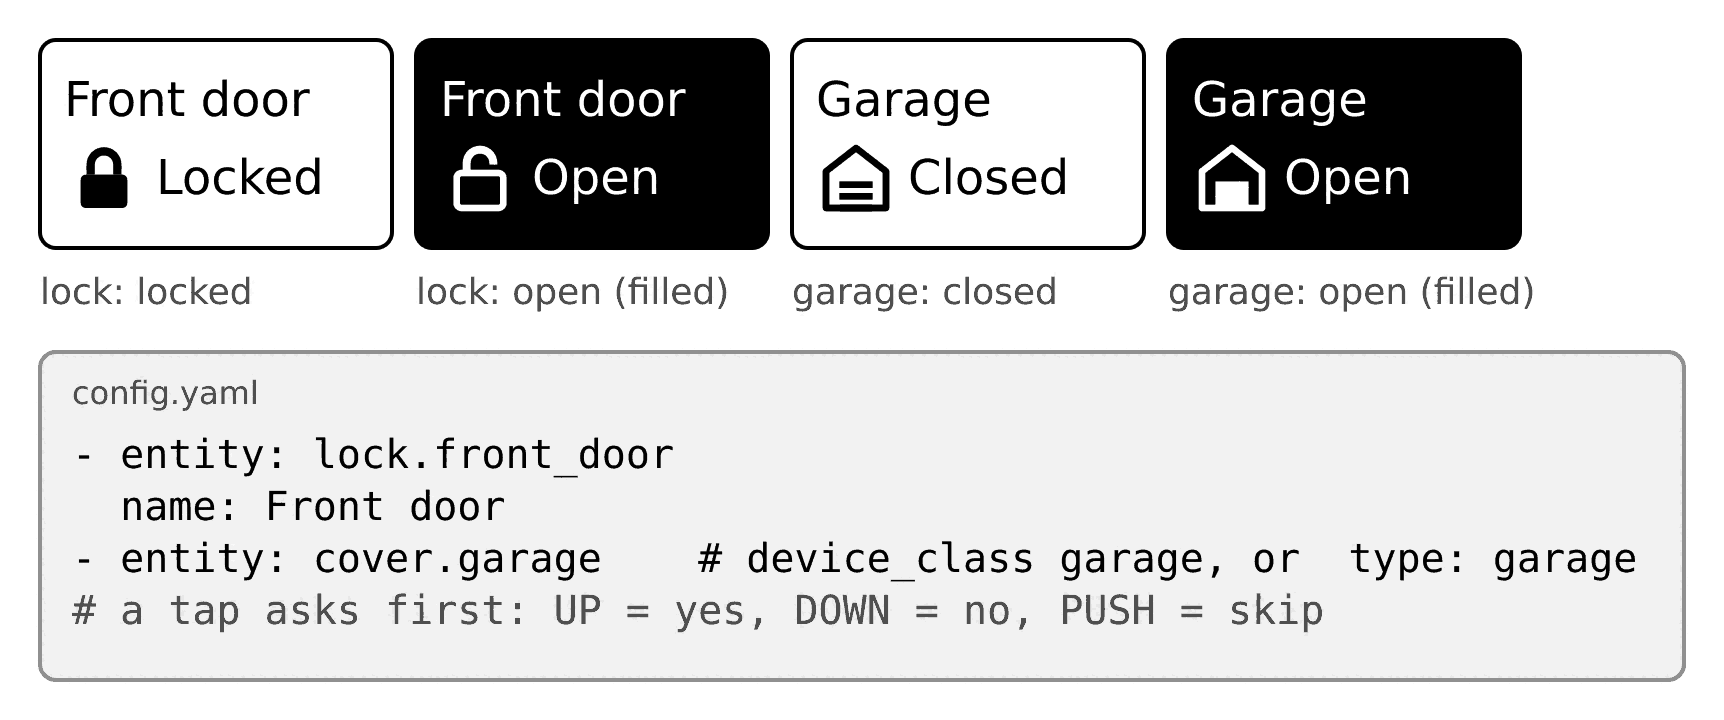
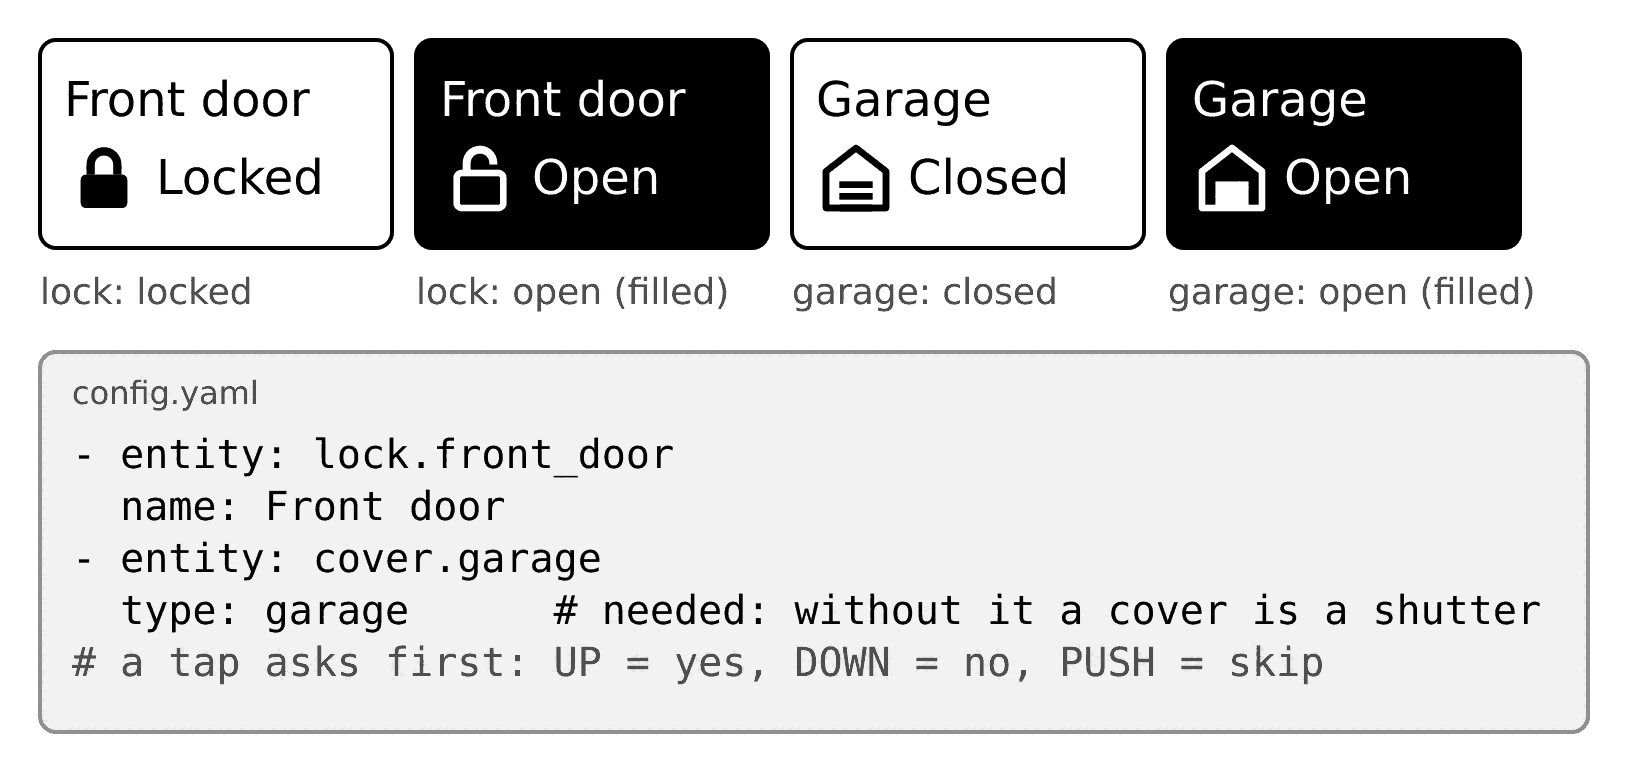
task 108: docs, guide, example config, device checks (step 6)
Claude-Session: https://claude.ai/code/session_01KJF812xuvvKsB7jVXNi3pG

Changed region(s): [[0.0, 0.0306, 0.9828, 0.8861], [0.0307, 0.9167, 0.9828, 0.9778]]

diff --git a/docs/guide/img/gen_sources.py b/docs/guide/img/gen_sources.py
@@ -651,7 +651,7 @@ gal3('gallery-alarm',[(SW,2,20,20,'disarmed'),(SW,10,208,20,'pending (Away)'),(S
  ['- entity: alarm_control_panel.home','  name: Alarm','# tap: keypad popup; the code never leaves the device'],1060,
  pop=('widgets-new-popup-alarm',584,20,0.45,'the keypad'))
 gal3('gallery-lock-garage',[(SW,3,20,20,'lock: locked'),(SW,7,208,20,'lock: open (filled)'),(SW,4,396,20,'garage: closed'),(SW,8,584,20,'garage: open (filled)')],
- ['- entity: lock.front_door','  name: Front door','- entity: cover.garage    # device_class garage, or  type: garage','# a tap asks first: UP = yes, DOWN = no, PUSH = skip'],772)
+ ['- entity: lock.front_door','  name: Front door','- entity: cover.garage','  type: garage      # needed: without it a cover is a shutter','# a tap asks first: UP = yes, DOWN = no, PUSH = skip'],772)
 gal3('gallery-energy',[(WW,10,20,20,'used and solar, one scale'),(WW,12,404,20,'solar missing')],
  ['- type: energy','  usage: sensor.energy_used_today','  solar: sensor.energy_solar_today'],788)
 gal3('gallery-media-art-states',[(MA,1,20,20,'art decoded'),(MA,2,20,170,'no picture'),(MA,3,20,320,'picture loading'),(MA,4,20,470,'fetch failed')],

diff --git a/docs/device-checks.md b/docs/device-checks.md
@@ -99,3 +99,4 @@ tagged `UNVERIFIED` in code comments and task notes.
 - [ ] 109 UNVERIFIED (device; PC part done, mockups docs/ui/png/widgets-new-states-wide.png): energy widget (`type: energy`) with the real entity `sensor.shellypro3em_3ce90e703834_total_active_energy` as `usage` (a `total_increasing` total, kWh), 2x1 portrait + landscape. Look vs the mockup: F18 `Used` / `Solar`, grey track (0xCCCCCC) with INK fill, `7.4 kWh` right aligned, one shared scale, `-` + empty track for a missing value, dotted frame + `n/a` + warn badge when both are unavailable. Today's value comes from `recorder/statistics_during_period` (period day, statistic `change`, one bucket from local midnight): check the log `APP: graph_fetch ... id=sensor.shellypro3em...` and compare the shown number with HA's own change since midnight (UNVERIFIED: HA may leave out the running hour, so a lag of up to 1 h is expected; check if it is more). Solar absent from config: the Used row is centred. Long press opens the history bar popup of `usage` (hourly bars, statistic change, last 24 h; UNVERIFIED it is "today" aligned only through hours=24, not through local midnight). The widget is not rocker-focusable (the spec text asks for a rocker long push, but section 0 says read-only widgets are not focusable; I followed section 0). Wh sensors show as kWh (not tested on a real one).
 - [ ] 107 UNVERIFIED (device; PC part done, mockups docs/ui/png/widgets-new-media-art-*.png; the user has no media_player with art, so the demo "New" tab is the look check: playing tile with the built-in sample cover, paused tile with the no-picture tile): album art. Look: widget art 80x80 in 16 greys with the 1 px edge, text at x 104 (about 14 / 11 characters then `...`), tile with the speaker glyph (drawn from primitives, 40 px where the spec says L 48), popup art 200x200 landscape and portrait (portrait panel is 700 px high), touch on the art opens the popup, `art: false` gives the old widget and popup. Refresh: a changed rect touching ready art is ONE GC16 partial with real greys (src/present, `PRESENT: ... reason=art`); check it comes only when the picture changes, no flash/ghosting on title changes, and the ghost debt. Real entity (needs one): `entity_picture` is requested like the other attributes (UNVERIFIED that the long token URL survives the state cache and the template size); fetch (background lane, HA-relative with token, 150 KB / 6 s caps) + M5GFX JPEG/PNG decode into a PSRAM sprite are written but UNVERIFIED (`APP: art err= ok= bytes= net_ms= decode_ms=` log line; check PSRAM use of the 150 KB body, decode time of a 640 px cover, a PNG, a 404, an oversize file, a yield to a tap). Unverified guesses: 6 s time cap, widget tile `Loading` hourglass M and failed layout, popup idle close unchanged.
 - [ ] 118 UNVERIFIED (device; PC part done, lib/ui_state touch()): tap on a sensor / binary sensor / energy widget opens the history popup (same fetch/cache as long press); tap on a light/switch still toggles; `history: false` and `attribute:` sensors and graph widgets: tap does nothing; no hourglass/pending feedback on the tap; rocker PUSH on a focused sensor still opens it.
+- [ ] 108 UNVERIFIED (device; PC part done, mockups docs/ui/png/widgets-new-popup-alarm.png, -popup-confirm.png, -states-small.png): alarm panel, lock and garage widgets, demo mode first (demo tabs `Alarm` and `Doors`, entities are fake, no real entity needed). Look check portrait + landscape: 1x1 toggle layout (name F24, M icon, F24 state; INK fill for ALARM, Open lock, Jammed, open garage; dotted `n/a` with the warn glyph; the 3 px dashed pending border is PAPER on a filled tile). Alarm keypad (tap `Alarm`): panel (40, 94, 880, 408), 12 keys 96 x 64, 4 mode buttons, close, code dots drawn as circles (the fonts have no bullet, UNVERIFIED look), backspace uses the 40 px `back` icon (spec says 32), messages `Enter code` / `Code entered, pick a mode` / `Wrong code` / `Sent`; demo accepts code 1234 for Disarm, arming needs none; key press redraws are full-frame diffs (the spec's code-box-only `epd_fastest` refresh is not special-cased, UNVERIFIED); rocker: ring starts on `5`, UP/DOWN walk keys, modes, close (inert modes skipped), PUSH presses, long push closes; idle close after 30 s and the code is cleared (UNVERIFIED: the spec has no idle time). Confirm dialog (tap `Front door` / `Garage`): panel (200, 188, 560, 220), UP yes / DOWN no / PUSH skip, tap outside = skip, auto-skip after 15 s, closed before sleep; after Yes the tile shows the requested state at once (optimistic, no hourglass: 036 behaviour; the spec's dashed pending look is only used for the alarm after a keypad command). Garage `Gate` (opening) stops on a tap without a question. Real entity (when one exists): `alarm_control_panel` attributes `code_format`, `code_arm_required`, `supported_features` are fetched (new domain attribute lists in template_builder); wrong code -> HA answers 400 -> `Wrong code`; success is recognised by the state differing from before the send at the first confirmation fetch (spec: after 2 fetches, UNVERIFIED); an arming delay shows `Arming`. Lock/garage use `lock.lock/unlock` and `cover.open_cover/close_cover/stop_cover` without an expected state (any fetch confirms); `cover` with `device_class: garage` is NOT detected automatically, `type: garage` is needed (spec allows both; follow-up). The code is only in the service body: check the serial log has no `code` / digits (`APP: service=alarm_control_panel.alarm_disarm ids=..` only). Portrait keypad and dialog are not mocked (UNVERIFIED geometry from the spec numbers).

diff --git a/docs/guide/04-widgets.md b/docs/guide/04-widgets.md
@@ -226,6 +226,54 @@ A bell with the number of Home Assistant notifications. It has no `entity`. Tap 
 
 `name` is optional and defaults to `Alerts`. The tile is outline at 0 and filled when there is at least one. It shows `99+` above 99, `-` while loading and `n/a` when the list cannot be fetched.
 
+## Alarm panel
+
+A shield with the mode of a Home Assistant alarm panel: `Off`, `Home`, `Away`, `Night`, `Arming`, `Entry` (the entry delay) or `ALARM` (filled while it is triggered). **Tap it** to open a keypad: type the code, then pick `Disarm`, `Home`, `Away` or `Night`.
+
+![Alarm panel tiles and the keypad.](img/gallery-alarm.png "An alarm panel and its keypad.")
+
+```yaml
+- entity: alarm_control_panel.home
+  name: Alarm
+```
+
+- The code is numbers only, up to 8 digits, shown as dots. It stays in the device memory, is sent only with the command, and is cleared when you send, close the keypad, or the device sleeps. It is never written to a log.
+- Disarming needs the code. Arming needs it only when your panel asks for it (`code_arm_required`).
+- A mode your panel does not support is dotted and does nothing. A panel that wants a text code (not only digits) is not supported: the keypad says so, and you can still arm without a code if the panel allows it.
+- With the rocker: a ring walks the keys, then the four modes, then the close button. Up and down move the ring, push presses, hold push closes. The keypad also closes after 30 seconds without input.
+- If the panel refuses the command, the keypad says `Wrong code` (or `Failed` when no code was sent) and you can try again.
+
+In the demo, the panels on the Alarm tab accept the code `1234` to disarm.
+
+## Lock and garage door
+
+A padlock or a garage with its state. **A tap asks first, then acts.** The question has three buttons: **Yes** (rocker up), **No** (rocker down) and **Skip** (push, or a tap outside). It skips by itself after 15 seconds. Nothing happens unless you answer Yes.
+
+![Lock and garage tiles.](img/gallery-lock-garage.png "A lock and a garage door.")
+
+```yaml
+- entity: lock.front_door
+  name: Front door
+- entity: cover.garage
+  type: garage
+  name: Garage
+```
+
+| | Looks | A tap |
+|---|---|---|
+| Lock, locked | `Locked`, outline | asks `Unlock Front door?` |
+| Lock, unlocked | `Open`, filled | locks at once (locking is safe) |
+| Lock, locking, unlocking, jammed | `Locking`, `Opening`, `Jammed` (filled) | nothing |
+| Garage, closed | `Closed`, outline | asks `Open Garage?` |
+| Garage, open | `Open`, filled | asks `Close Garage?` |
+| Garage, opening or closing | `Opening`, `Closing` | stops the door, without a question |
+
+- A garage door is a `cover` entity. Add `type: garage`: without it a cover is shown as a shutter with up, stop and down buttons.
+- `confirm: true` or `confirm: false` replaces the default (a lock asks only before unlocking, a garage door asks both ways).
+- A lock that needs a code is not supported: it shows an alert badge and a tap does nothing.
+- Filled means "needs attention": an unlocked lock, an open garage, a triggered alarm. Everything else is an outline.
+- A group is not possible for these three: one entity per tile.
+
 ## Calendar
 
 The next two events of a Home Assistant calendar, each with its time and title ("14:30", "now", "Tue 09:00", "all day"). Read-only: a tap does nothing. It is 2x1; a wider tile is allowed where the screen has room.
@@ -307,7 +355,7 @@ Without `display: graph`, a **tap** or **long press** on a sensor still opens th
 
 | Widget | Default | Other sizes |
 |---|---|---|
-| Light, switch, automation, binary sensor, notifications | 1x1 | none |
+| Light, switch, automation, binary sensor, notifications, alarm panel, lock, garage door | 1x1 | none |
 | Energy | 2x1 | none |
 | Sensor | 1x1 | `2x1` |
 | Weather | 2x1 | `1x1` (and wider with the forecast) |
@@ -315,7 +363,3 @@ Without `display: graph`, a **tap** or **long press** on a sensor still opens th
 | Graph | 2x2 | 2x1 up to a full-width, 3 row block |
 
 A size a widget does not allow is changed to the nearest allowed one.
-
-## Coming soon
-
-These widgets are being built and do not work yet: an **alarm panel** and **locks and garage doors**. Do not use their entities yet: the device would report an unsupported entity.

diff --git a/docs/guide/09-config-reference.md b/docs/guide/09-config-reference.md
@@ -62,11 +62,11 @@ Each widget has exactly one of `entity` or `group` (except `type: notifications`
 
 | Key | Values | Default | Effect |
 |---|---|---|---|
-| `entity` | entity id, `domain.object_id` | none | The Home Assistant thing. Supported domains: `cover`, `light`, `switch`, `automation`, `climate`, `sensor`, `binary_sensor`, `weather`, `vacuum`, `media_player`, `calendar`. |
+| `entity` | entity id, `domain.object_id` | none | The Home Assistant thing. Supported domains: `cover`, `light`, `switch`, `automation`, `climate`, `sensor`, `binary_sensor`, `weather`, `vacuum`, `media_player`, `calendar`, `alarm_control_panel`, `lock`. |
 | `group` | a name from `groups` | none | A widget for all members of the group. Needs `name`. |
 | `name` | text | the Home Assistant name | The label. Required for groups. Default `Alerts` for notifications. |
 | `size` | `WxH` | depends on the type | See [Widgets, Sizes](04-widgets.md#sizes). Sizes a type does not allow are corrected. |
-| `type` | `sensor`, `cover`, `light`, `switch`, `automation`, `climate`, `binary_sensor`, `weather`, `vacuum`, `media_player`, `calendar`, `notifications`, `energy` | from the entity | Pick the widget type yourself, for example `type: sensor` for `person.alice`. `notifications` needs no entity. |
+| `type` | `sensor`, `cover`, `light`, `switch`, `automation`, `climate`, `binary_sensor`, `weather`, `vacuum`, `media_player`, `calendar`, `alarm_control_panel`, `lock`, `garage`, `notifications`, `energy` | from the entity | Pick the widget type yourself, for example `type: sensor` for `person.alice`. `notifications` needs no entity. `garage` is a `cover` entity shown as a garage door. |
 
 ### Sensor options
 
@@ -88,6 +88,14 @@ Each widget has exactly one of `entity` or `group` (except `type: notifications`
 | Key | Values | Default | Effect |
 |---|---|---|---|
 | `art` | `true` or `false` | `true` | Shows the cover art of the playing track. `false` keeps the text-only tile and popup. Media player widgets only. |
+
+### Lock and garage option
+
+| Key | Values | Default | Effect |
+|---|---|---|---|
+| `confirm` | `true` or `false` | lock: ask before unlocking only; garage: ask both ways | Whether a tap asks before it acts. Lock and garage widgets only. Stopping a moving door never asks. |
+
+Alarm panel, lock and garage widgets are single-entity, 1x1 tiles (no group, no size). See [Widgets](04-widgets.md#alarm-panel).
 
 ### Energy widget
 

diff --git a/docs/tasks/108-alarm-lock-widgets.md b/docs/tasks/108-alarm-lock-widgets.md
@@ -1,6 +1,6 @@
 # 108: Alarm panel, lock and garage widgets + confirm dialog
 
-Status: todo
+Status: in-progress (PC part done, device check pending)
 Depends on: 045
 UI spec: docs/ui/widgets-new.md §0, §5, §6, §7 (+ mockups docs/ui/png/widgets-new-*.png)
 Needs device: yes (look + a real entity; PC part first)
@@ -22,3 +22,4 @@ Out of scope: other new widgets.
 ## Notes
 - User 2026-11-03: no such entity in the user's HA. Demo mode must show this widget with sample data (all states), so the device look check works without a real entity.
 - 2026-11-03: the guide gallery picture for this widget (docs/guide/img/gallery-*) embeds a config snippet from docs/ui/widgets-new.md; implement those keys exactly (or fix the spec + picture), so the guide snippet parses.
+- PC part done (firmware-dev): config types alarm/lock/garage + `confirm`, lib/ui_state secure_view / confirm_dialog / alarm_popup / app_state_secure, service calls + secure_intent, src/render/secure_widget, demo tabs Alarm + Doors, tests test_secure_widgets, guide 04/09, docs/CONFIG.md, device-checks 108. Open: `cover` with device_class garage is not auto-detected (`type: garage` needed; guide picture fixed); spec's keypad code-box-only fastest refresh not special-cased; success check after the first confirmation fetch, not 2; code never logged (session log prints service + ids only); portrait popups unmocked.

diff --git a/docs/guide/10-troubleshooting.md b/docs/guide/10-troubleshooting.md
@@ -56,7 +56,7 @@ Fix the first error, restart the device, and check again. The row [is explained 
 
 ## "unsupported entity domain, set 'type' explicitly"
 
-The entity is of a kind that has no widget (for example `person.`). Add `type: sensor` to show it as a sensor. For locks, alarm panels and similar this shows the state as text only: you can read it but not operate it. See [Widgets, Show any entity as a sensor](04-widgets.md#show-any-entity-as-a-sensor).
+The entity is of a kind that has no widget (for example `person.`). Add `type: sensor` to show it as a sensor. For other kinds without a widget (a `scene`, say) this shows the state as text only: you can read it but not operate it. Locks, alarm panels and garage doors have their own widgets. See [Widgets, Show any entity as a sensor](04-widgets.md#show-any-entity-as-a-sensor).
 
 ## The screen stays blank or does not wake
 
